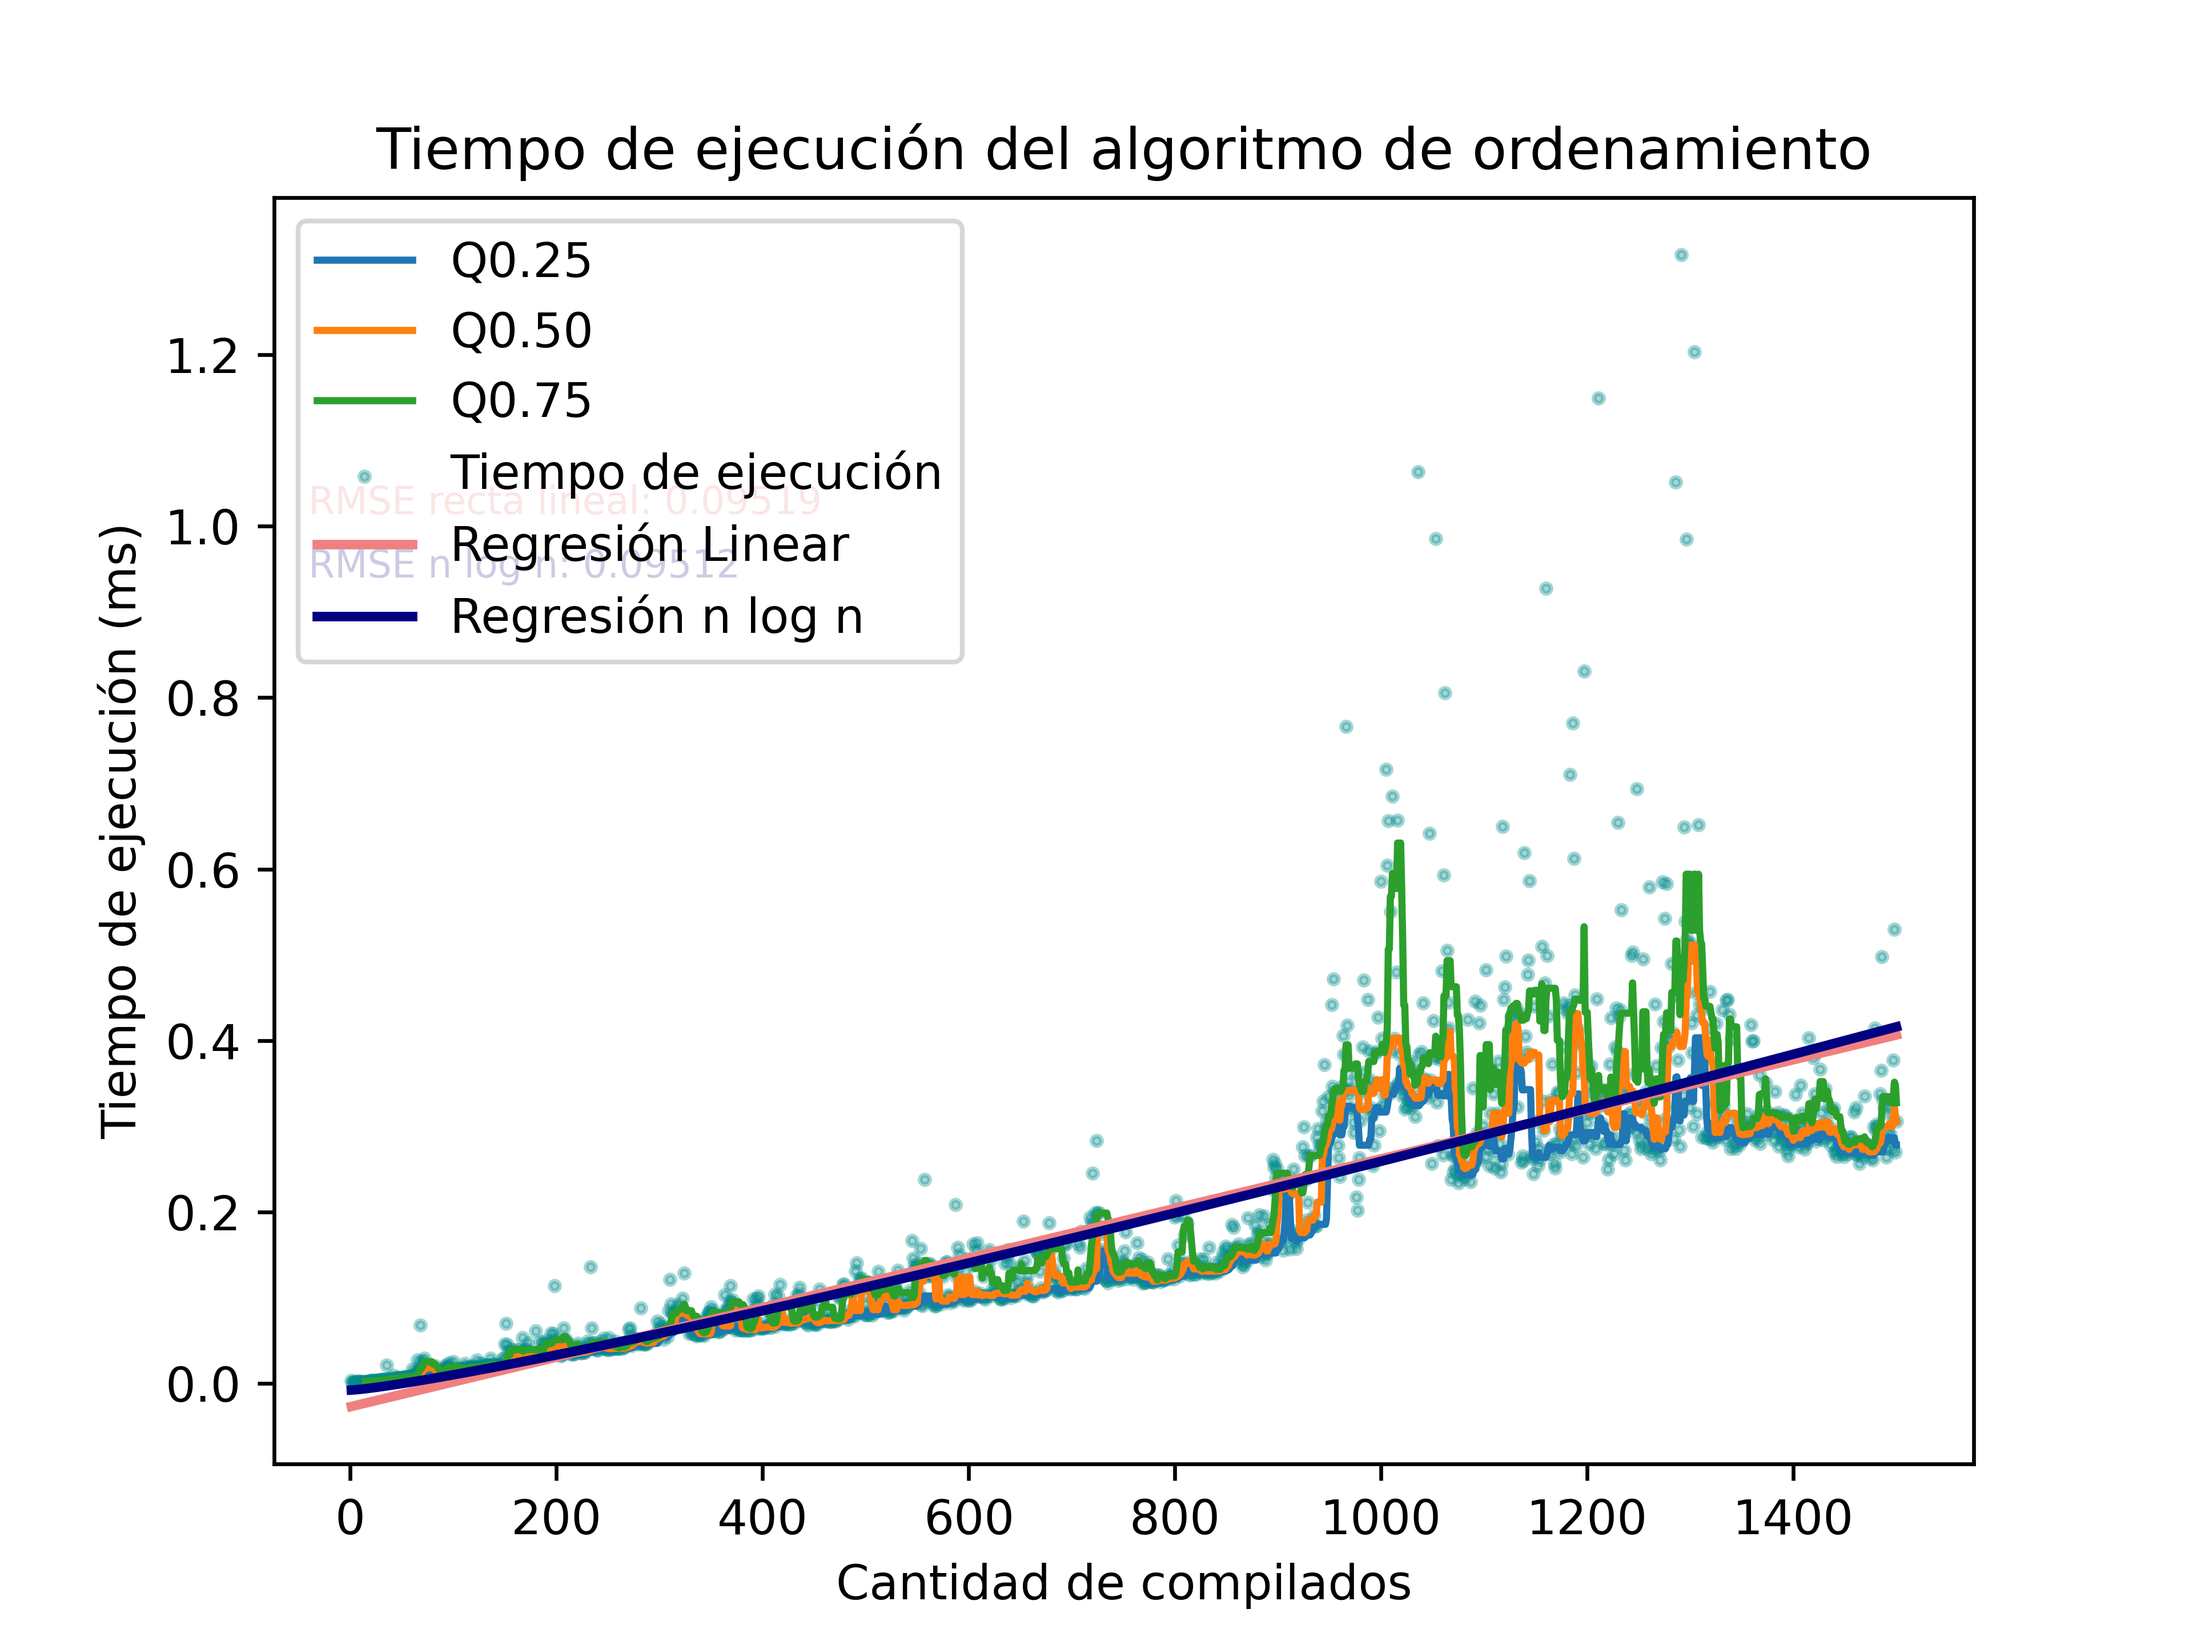
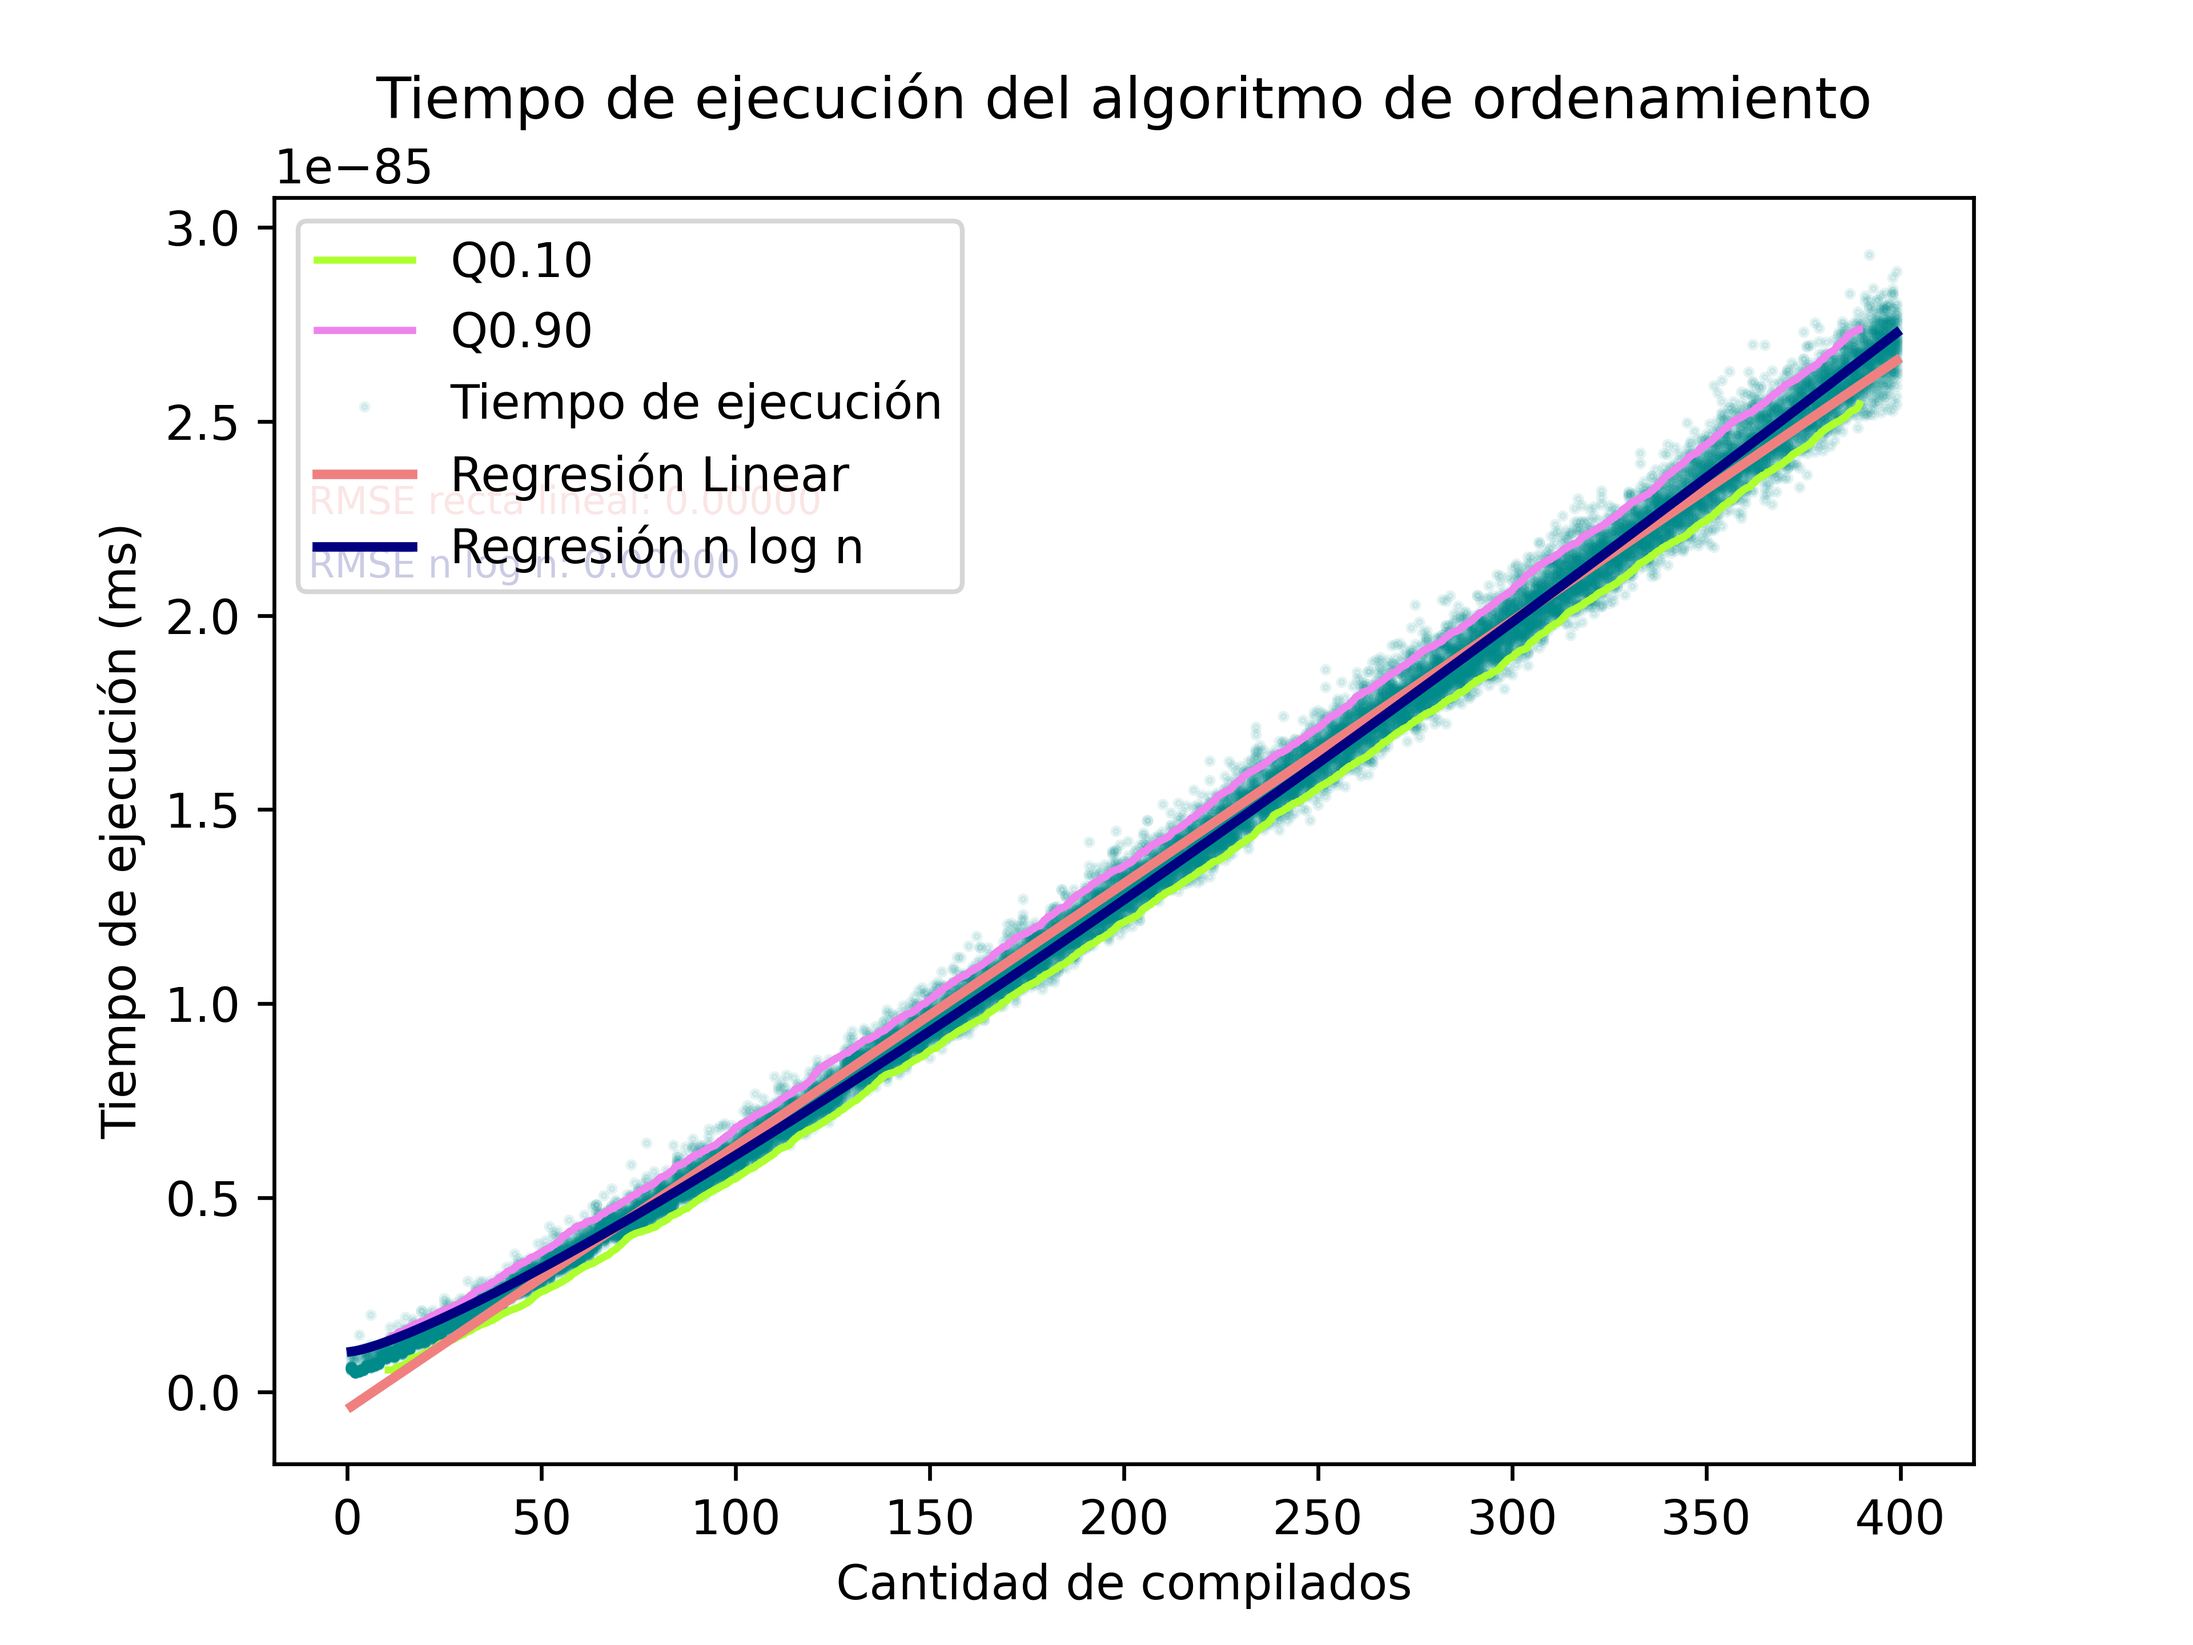
Grafico sin error del procesador

diff --git a/tp1/medicion_tiempo.py b/tp1/medicion_tiempo.py
@@ -7,14 +7,10 @@ from algoritmos import Compilado, compilados_ordenados_de_forma_optima
 import matplotlib.pyplot as plt
 from scipy.optimize import curve_fit
 
-CANTIDAD_PARA_PROMEDIO = 3
-CANTIDAD_COMPILADOS = 1500
-
-
 def tiempo_ejecucion(compilados):
-    tiempo_inicial = time.time()
+    tiempo_inicial = time.process_time()
     compilados_ordenados_de_forma_optima(compilados)
-    tiempo_final = time.time()
+    tiempo_final = time.process_time()
     return tiempo_final - tiempo_inicial
 
 
@@ -26,20 +22,50 @@ def generar_compilados_aleatorios(cant_compilados):
 
 
 def main():
-    graficar_simulaciones(1501, 1, "./informe/img/tiempos_valores_bajos.png")
-    graficar_simulaciones(10000, 2, "./informe/img/tiempos_valores_altos.png")
+    graficar_simulaciones(400, 1, "./informe/img/tiempos_valores_bajos.png", 50)
+    #graficar_simulaciones(10000, 10, "./informe/img/tiempos_valores_altos.png", 10)
 
 
-def graficar_simulaciones(maximo, intervalos, path_salida):
-    cantidad_compilados = range(1, maximo, intervalos)
-    tiempos_ejecucion = []
+def graficar_simulaciones(maximo, intervalos, path_salida, numero_vueltas):
+    cantidad_compilados = list(range(1, maximo, intervalos))
+    muestras_compialados = []
 
-    for i in cantidad_compilados:
-        compilados_ejemplo = generar_compilados_aleatorios(i)
-        tiempos_ejecucion.append(tiempo_ejecucion(compilados_ejemplo) * 1000)
+    mediciones = []
+    for i in range(numero_vueltas):
+        muestra_muestras_compialados = []
+        mediciones_aux = []
+        for cantidad in cantidad_compilados:
+            muestra_muestras_compialados.append(generar_compilados_aleatorios(cantidad))
+            mediciones_aux.append(0)
+        muestras_compialados.append(muestra_muestras_compialados)
+        mediciones.append(mediciones_aux)
 
-    x = np.array(cantidad_compilados)
-    y = np.array(tiempos_ejecucion)
+    for vuelta in range(numero_vueltas):
+        for index_muestras, muestras in enumerate(muestras_compialados):
+            for index_muestra, muestra in enumerate(muestras):
+                mediciones[index_muestras][index_muestra] += tiempo_ejecucion(muestra) * 1000
+    
+    
+    for vuelta in range(numero_vueltas):
+        for index_muestras, muestras in enumerate(muestras_compialados):
+            for index_muestra, muestra in enumerate(muestras):
+                mediciones[index_muestras][index_muestra] /= numero_vueltas
+    
+    tiempos_ejecucion = [item for sublist in mediciones for item in sublist]
+    cantidad_compilados = cantidad_compilados * numero_vueltas
+
+    
+    x = cantidad_compilados  # Example unsorted x values
+    y = tiempos_ejecucion  # Corresponding y values
+
+    # Pair x and y values and sort based on x
+    sorted_pairs = sorted(zip(x, y), key=lambda pair: pair[0])
+
+    # Unzip the sorted pairs back into separate x and y arrays
+    sorted_x, sorted_y = zip(*sorted_pairs)
+
+    x = np.array(sorted_x)
+    y = np.array(sorted_y)
 
     # Regresión Lineal
     coefficients = np.polyfit(x, y, 1)
@@ -67,35 +93,37 @@ def graficar_simulaciones(maximo, intervalos, path_salida):
     Y = np.array(y)
 
     # Define the size of the overlapping groups
-    group_size = 15
+    group_size = numero_vueltas * 20
 
     # Determine the number of overlapping groups
     num_groups = len(x) - group_size + 1
 
     # Initialize arrays to store quantiles
-    quantiles_25 = np.zeros(num_groups)
-    quantiles_50 = np.zeros(num_groups)
-    quantiles_75 = np.zeros(num_groups)
+    quantiles_10 = np.zeros(num_groups)
+    quantiles_90 = np.zeros(num_groups)
 
     # Calculate quantiles for each group
     for i in range(num_groups):
         group_y = Y[i:i+group_size]
-        quantiles_25[i] = np.percentile(group_y, 25)
-        quantiles_50[i] = np.percentile(group_y, 50)
-        quantiles_75[i] = np.percentile(group_y, 75)
+        quantiles_10[i] = np.percentile(group_y, 10)
+        quantiles_90[i] = np.percentile(group_y, 90)
+       
+    # Determine the center positions for each group
+    group_centers = []
+    for i in range(num_groups):
+        group_center = np.mean(X[i:i+group_size])
+        group_centers.append(group_center)
 
-
-        
+    group_centers = np.array(group_centers)
 
     # Graficar
     plt.figure(dpi=600)
     # Plot the lines
-    plt.plot(X[group_size-1:], quantiles_25, label='Q0.25')
-    plt.plot(X[group_size-1:], quantiles_50, label='Q0.50')
-    plt.plot(X[group_size-1:], quantiles_75, label='Q0.75')
+    plt.plot(group_centers, quantiles_10, label='Q0.10', color="greenyellow")
+    plt.plot(group_centers, quantiles_90, label='Q0.90', color="violet")
 
     plt.scatter(
-        x, y, label="Tiempo de ejecución", marker="o", color="darkcyan", alpha=0.35, s=4
+        x, y, label="Tiempo de ejecución", marker="o", color="darkcyan", alpha=0.1, s=2
     )
     plt.plot(
         x,
